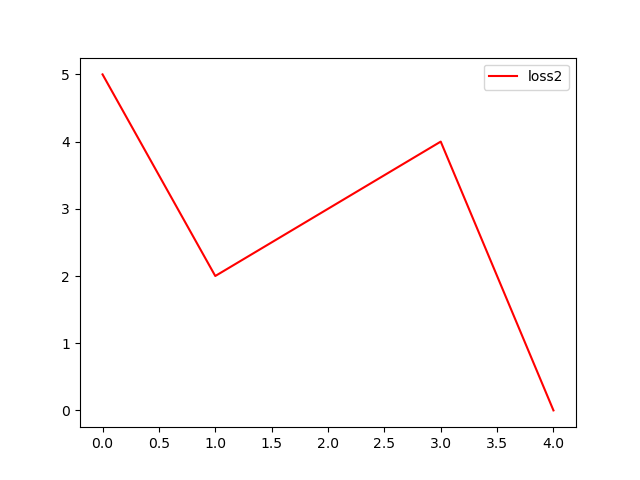
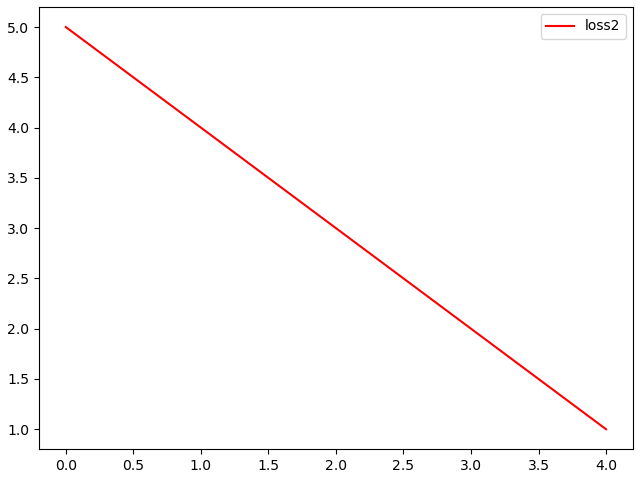
update version 0.5 and 0.6
1. 修改了保存的图片的边缘空白大小, 使得图片看起来更加紧凑
2. 增加了torchvision.utils.save_imge的优化版本
3. EasyLossUtil增加了接续训练loadArchive参数及其实现

diff --git a/EasyLossUtil/easyLossUtil.py b/EasyLossUtil/easyLossUtil.py
@@ -2,13 +2,16 @@ import os
 import matplotlib.pyplot as plt
 import numpy as np
 import pandas as pd
+import torch
 
 
+@torch.no_grad()
 class EasyLossUtil:
-    def __init__(self, loss_name_list: list, loss_root_dir: str):
+    def __init__(self, loss_name_list: list, loss_root_dir: str, loadArchive: bool = False):
         """
         :param loss_name_list: 需要处理的loss的名字的列表,不允许重复   例如训练GAN时的d_loss, g_loss
         :param loss_root_dir: 存放loss数据的根目录
+        :param loadArchive: 是否加载数据存档, 有时候常常需要加载模型断点继续训练, 此时需要加载以前的loss数据
         """
         self.loss_name_list = loss_name_list
         self.loss_root_dir = loss_root_dir
@@ -31,6 +34,13 @@ class EasyLossUtil:
         # 查看数据存储目录是否存在，不存在则创建
         if not os.path.exists(loss_root_dir):
             os.mkdir(loss_root_dir)
+        # 加载存档的loss数据
+        if loadArchive:
+            for i in range(self.loss_num):
+                # 加载数据
+                loss_data_i = self.loadSingleLossDataArchive(loss_name=loss_name_list[i])
+                # 放进字典, 更新数据
+                self.data[loss_name_list[i]] = loss_data_i
 
     def append(self, loss_name, loss_data):
         """
@@ -53,13 +63,15 @@ class EasyLossUtil:
             assert len(loss_name) == len(loss_data), f"loss_name和loss_data的数据个数不一致"
             for idx in range(len(loss_name)):
                 # 依次存储所有数据
+                # 获取loss名字
                 name = loss_name[idx]
+                # 获取数据
                 d = loss_data[idx]
                 self.data[name].append(d)
         else:
             raise RuntimeError(f"loss_name 的类型: {loss_name_type} 不正确")
 
-    def saveSingleLoss2File(self, loss_name:str):
+    def saveSingleLoss2File(self, loss_name: str):
         """
         将loss数据保存为csv文件存储
         :param loss_name: 要存储的loss的名字
@@ -67,7 +79,7 @@ class EasyLossUtil:
         pdOperator = pd.DataFrame(data=self.data[loss_name])
         pdOperator.to_csv(os.path.join(self.loss_root_dir, loss_name + ".csv"), index=False, header=False)
 
-    def saveSingleLoss2Image(self, loss_name, image_name: str, line_color ="red", start_epoch: int = 0):
+    def saveSingleLoss2Image(self, loss_name, image_name: str, line_color="red", start_epoch: int = 0):
         """
         将loss数据保存为折线图
         :param loss_name: 要保存的loss
@@ -78,10 +90,11 @@ class EasyLossUtil:
         plt.figure()
         data_len = len(self.data[loss_name])
         # 注意此处stop是包含在内的, 是全闭合区间
-        x = np.linspace(start=start_epoch, stop=start_epoch + data_len-1, num=data_len, dtype=np.uint32)
+        x = np.linspace(start=start_epoch, stop=start_epoch + data_len - 1, num=data_len, dtype=np.uint32)
         # print(x)
         plt.plot(x, np.array(self.data[loss_name]), line_color, label=loss_name)
         plt.legend(loc='best')
+        plt.tight_layout(pad=0.5)  # 控制图像边缘的空白, 使得图像紧凑一些
         plt.savefig(os.path.join(self.loss_root_dir, image_name))
         plt.close()
 
@@ -94,3 +107,19 @@ class EasyLossUtil:
         for name in self.loss_name_list:
             self.saveSingleLoss2File(name)
             self.saveSingleLoss2Image(loss_name=name, image_name=name + "." + postfix)
+
+    def loadSingleLossDataArchive(self, loss_name:str):
+        """
+        从csv文件加载loss数据
+        :param loss_name: 加载的loss的名字
+        :return: 加载后的list对象
+        """
+        # header为None表示没有表头
+        loss_data = pd.read_csv(
+            os.path.join(self.loss_root_dir, loss_name + ".csv"),
+            sep=',',
+            header=None
+        )
+        loss_data = loss_data.values.squeeze()
+        loss_data = loss_data.tolist()
+        return loss_data

diff --git a/EasyLossUtil/saveTensor2Img.py b/EasyLossUtil/saveTensor2Img.py
@@ -1,0 +1,35 @@
+from typing import Any, Union, BinaryIO, Optional
+import pathlib
+import torch
+from torchvision.utils import _log_api_usage_once, make_grid
+from PIL import Image
+
+
+def save_image(
+        tensor: torch.tensor,
+        fp: Union[str, pathlib.Path, BinaryIO],
+        format: Optional[str] = None,
+        gray_image: bool = False,
+        **kwargs
+):
+    """
+    通过convert('L')可以在保存灰度图时减少存储开销
+    torchvision.utils原来的实现是将单通道数据直接拼接三次, 因此出来后做一个灰度图的转换
+    Args:
+        gray_image: 输入的数据是否是灰度图像数据
+        tensor (Tensor or list): Image to be saved. If given a mini-batch tensor,
+            saves the tensor as a grid of images by calling ``make_grid``.
+        fp (string or file object): A filename or a file object
+        format(Optional):  If omitted, the format to use is determined from the filename extension.
+            If a file object was used instead of a filename, this parameter should always be used.
+        **kwargs: Other arguments are documented in ``make_grid``.
+    """
+    if not torch.jit.is_scripting() and not torch.jit.is_tracing():
+        _log_api_usage_once(tensor)
+    grid = make_grid(tensor, **kwargs)
+    # Add 0.5 after unnormalizing to [0, 255] to round to nearest integer
+    ndarr = grid.mul(255).add_(0.5).clamp_(0, 255).permute(1, 2, 0).to("cpu", torch.uint8).numpy()
+    im = Image.fromarray(ndarr)
+    if gray_image:
+        im = im.convert('L')
+    im.save(fp, format=format)

diff --git a/EasyLossUtil/quickAverageMethod.py b/EasyLossUtil/quickAverageMethod.py
@@ -1,5 +1,6 @@
+import torch
 
-
+@torch.no_grad()
 class QuickAverageMethod:
     def __init__(self, loss_name_list:list):
         """

diff --git a/readme.md b/readme.md
@@ -1,35 +1,73 @@
-## EasyLossUtil   
-### 简介   
-在训练神经网路模型的过程中常常有loss数据,一般表现为一个epoch出现好几个。  
-如果要使用tensorbord去可视化训练loss，我又懒得配置，因此自己写了将loss保存为文件以及图片的程序。
+- [EasyLossUtil](#easylossutil)
+  - [1 简介](#1-简介)
+  - [2 requirement](#2-requirement)
+  - [3 Easy Loss Util example](#3-easy-loss-util-example)
+    - [3.1 loss数据保存到csv与可视化](#31-loss数据保存到csv与可视化)
+    - [3.2 接续训练时的loss处理](#32-接续训练时的loss处理)
+  - [4 Quick Average Method Example](#4-quick-average-method-example)
+  - [5 torchvision.utils.save\_imge的优化版本](#5-torchvisionutilssave_imge的优化版本)
+
+# EasyLossUtil   
+## 1 简介   
+在训练神经网路模型的过程中常常有loss数据,一般表现为一个epoch出现好几个<br>
+如果要使用tensorbord去可视化训练loss，我又懒得配置，
+因此自己写了将loss保存为文件以及图片的程序。<br>
 在不同的项目之间往往需要复制粘贴完成，所以不如写一个自己喜欢的通用的库出来算了。
 
-### requirement
+## 2 requirement
+开发这个库使用的第三方包:   
+不用保持版本一致, 但是这几个库一定要有   
 pandas==1.0.5   
 numpy==1.21.4   
-matplotlib=3.2.2   
+matplotlib==3.2.2   
+torch==1.11.0   
 
+## 3 Easy Loss Util example
 
-### Easy Loss Util example
-
+### 3.1 loss数据保存到csv与可视化
 ```python
 import os
 from EasyLossUtil.easyLossUtil import EasyLossUtil
 
 root_path = os.path.dirname(__file__)  # 本文件所在目录的绝对路径   
+# 需要处理的loss的名字
 name_list = ["loss1", "loss2"]
-lossUtil = EasyLossUtil(loss_name_list=name_list, loss_root_dir=os.path.join(root_path, "test_loss"))
+# 初始化工具
+lossUtil = EasyLossUtil(
+    # loss的名字
+    loss_name_list=name_list,
+    # loss保存的根目录
+    loss_root_dir=os.path.join(root_path, "test_loss")
+)
+# 模拟的loss数据, 共5个epoch的数据
 loss1 = [1, 2, 3, 4]
 loss2 = [5, 2, 3, 4]
-for i in range(len(loss1)):
-    lossUtil.append(loss_name=name_list, loss_data=[loss1[i], loss2[i]])
+# for循环模拟训练流程
+total_epochs = len(loss1)
+for i in range(total_epochs):
+    lossUtil.append(
+        loss_name=name_list,
+        # 数据的顺序要与名字一致
+        # 比如名字是loss1和loss2
+        # 那么数据也应该是loss1和loss2
+        loss_data=[
+            loss1[i],
+            loss2[i]
+        ]
+    )
+# 自动保存loss数据为csv文件以及折线图文件
 lossUtil.autoSaveFileAndImage()
 ```
+**运行代码后会有以下提示:**   
+EasyLossUtil---要处理的loss的名字为:   
+loss1   
+loss2   
 
+**运行结果如下:**   
 loss1.png   
-![alt loss1](./test_loss/loss1.png)   
+<img src="./test_loss/loss1.png" width=400>  
 loss2.png   
-![alt loss2](./test_loss/loss2.png)   
+<img src="./test_loss/loss2.png" width=400>  
 
 loss1.csv:   
 1   
@@ -43,20 +81,73 @@ loss1.csv:
 3   
 4   
 
-### Quick Average Method Example
+### 3.2 接续训练时的loss处理
+这个功能是为了以下情况开发的:   
+假设使用本工具保存了200个epoch的数据时, 因为未知原因(停电或者主动中断)导致程序停止了    
+而我们想要在下一次训练时, 加载上一次训练的模型权重接续训练, 并且使得loss数据也能够连续, 前200个数据不会丢失(主要是折线图),    
+那么可以按照以下例子设置:   
+主要是需要在初始化工具时, 使用loadArchive=True进行设置, 工具会自行从设置的loss_root_dir目录中以往的日志文件中读取数据
+
 ```python
 import os
+from EasyLossUtil.easyLossUtil import EasyLossUtil
+
+root_path = os.path.dirname(__file__)  # 本文件所在目录的绝对路径
+# 需要处理的loss数据
+name_list = ["loss1", "loss2"]
+# 初始化工具, 
+lossUtil = EasyLossUtil(
+    loss_name_list=name_list,
+    loss_root_dir=os.path.join(root_path, "test_loss"),
+    # loadArchive=True表示从loss_root_dir目录下以往的csv文件中读取数据初始化工具
+    loadArchive=True
+)
+# 输出现有的数据查看是否初始化成功(data是一个字典)
+print(lossUtil.data)
+# 后续可以按照3.1节继续向工具中添加数据, 保存到文件
+```
+
+## 4 Quick Average Method Example
+这个工具用于快速计算平均值, <br>
+例如一个epoch中有多次迭代, 计算多次迭代的loss平均值
+```python
 from EasyLossUtil.quickAverageMethod import QuickAverageMethod
 
+# 需要处理的loss的名字
 name_list = ["loss1", "loss2"]
+# 初始化工具
 q = QuickAverageMethod(loss_name_list=name_list)
+# 需要计算平均值的工具
 loss1 = [1, 2, 3, 4, 0]
 loss2 = [5, 2, 3, 4, 0]
+# 模拟循环训练过程, 向工具类中添加数据
 for i in range(len(loss1)):
     q.append(loss_name=name_list, value=[loss1[i], loss2[i]])
+# 获取loss数据的平均值
 all_avg_loss = q.getAllAvgLoss()
 print(all_avg_loss)
 ```
 
 输出为:   
-[2.0, 2.8]
+[2.0, 2.8]   
+分别对应loss1的均值和loss2的均值
+
+## 5 torchvision.utils.save_imge的优化版本
+torchvision.utils中的保存图片的api在处理灰度图像数据时, 存储开销较大, <br>
+因此我根据博客做了更改, 链接如下<br>
+https://blog.csdn.net/nyist_yangguang/article/details/119935122 <br>
+
+使用的例子<br>
+使用gray_image=True控制, 在保存前对灰度图像做处理<br>
+```python
+from EasyLossUtil.saveTensor2Img import save_image
+import torch
+a = torch.randn((10, 1, 64, 128))
+save_image(
+    a,
+    'efficient_save_tensor.png',
+    gray_image=True,
+    nrow=2,
+    padding=5
+)
+```
